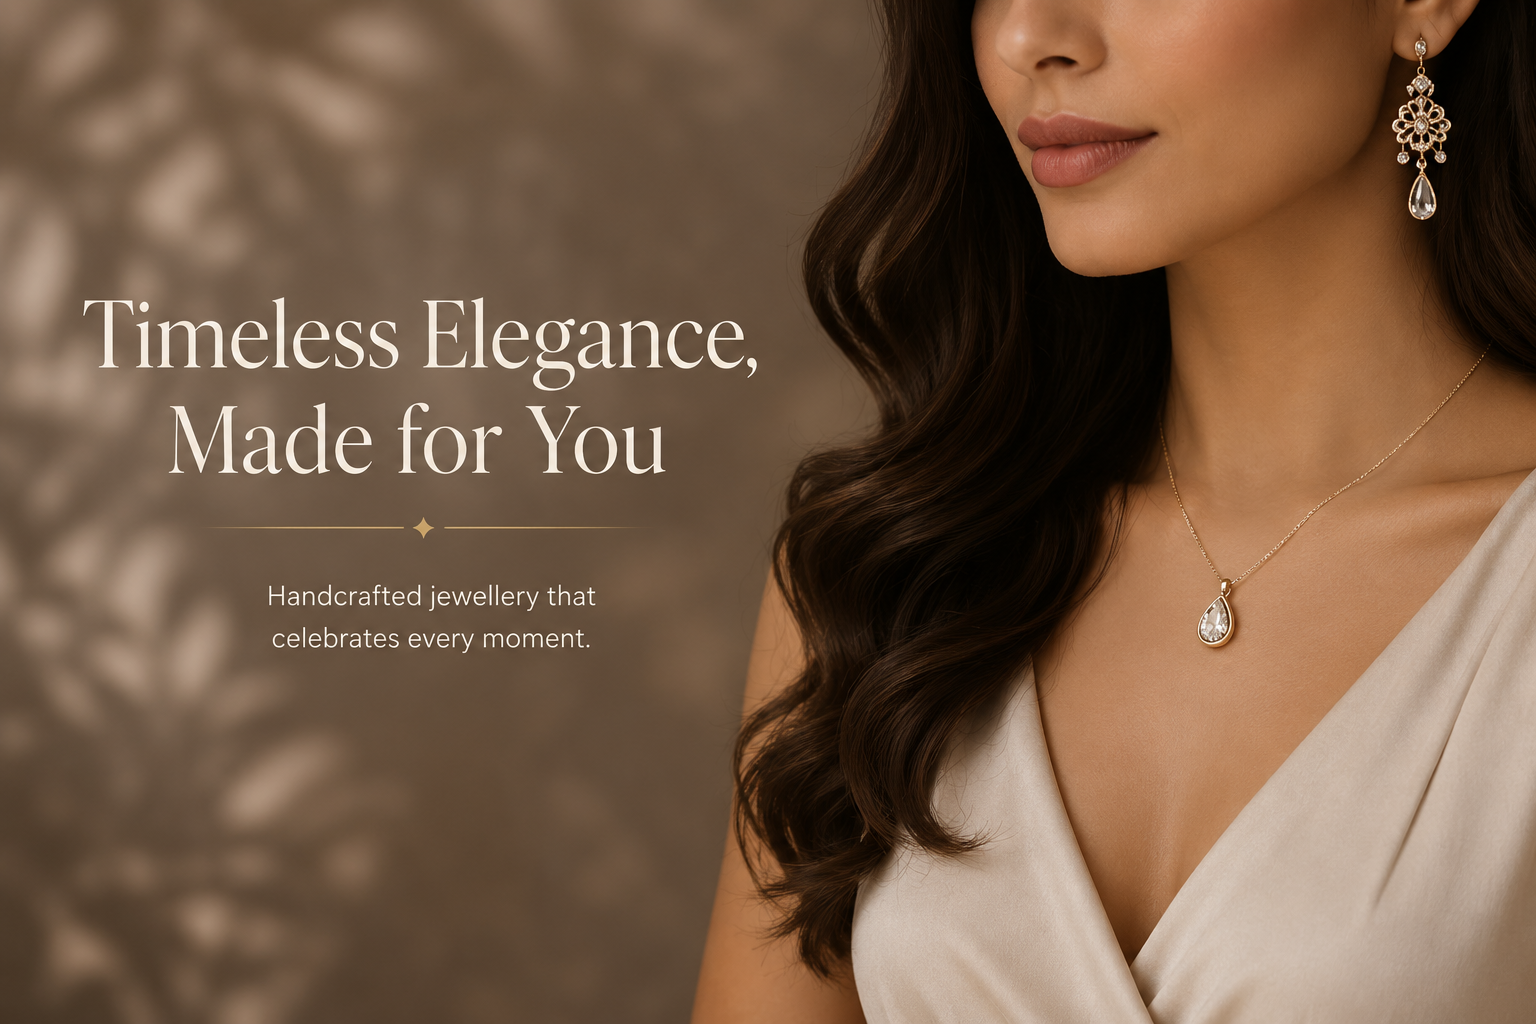
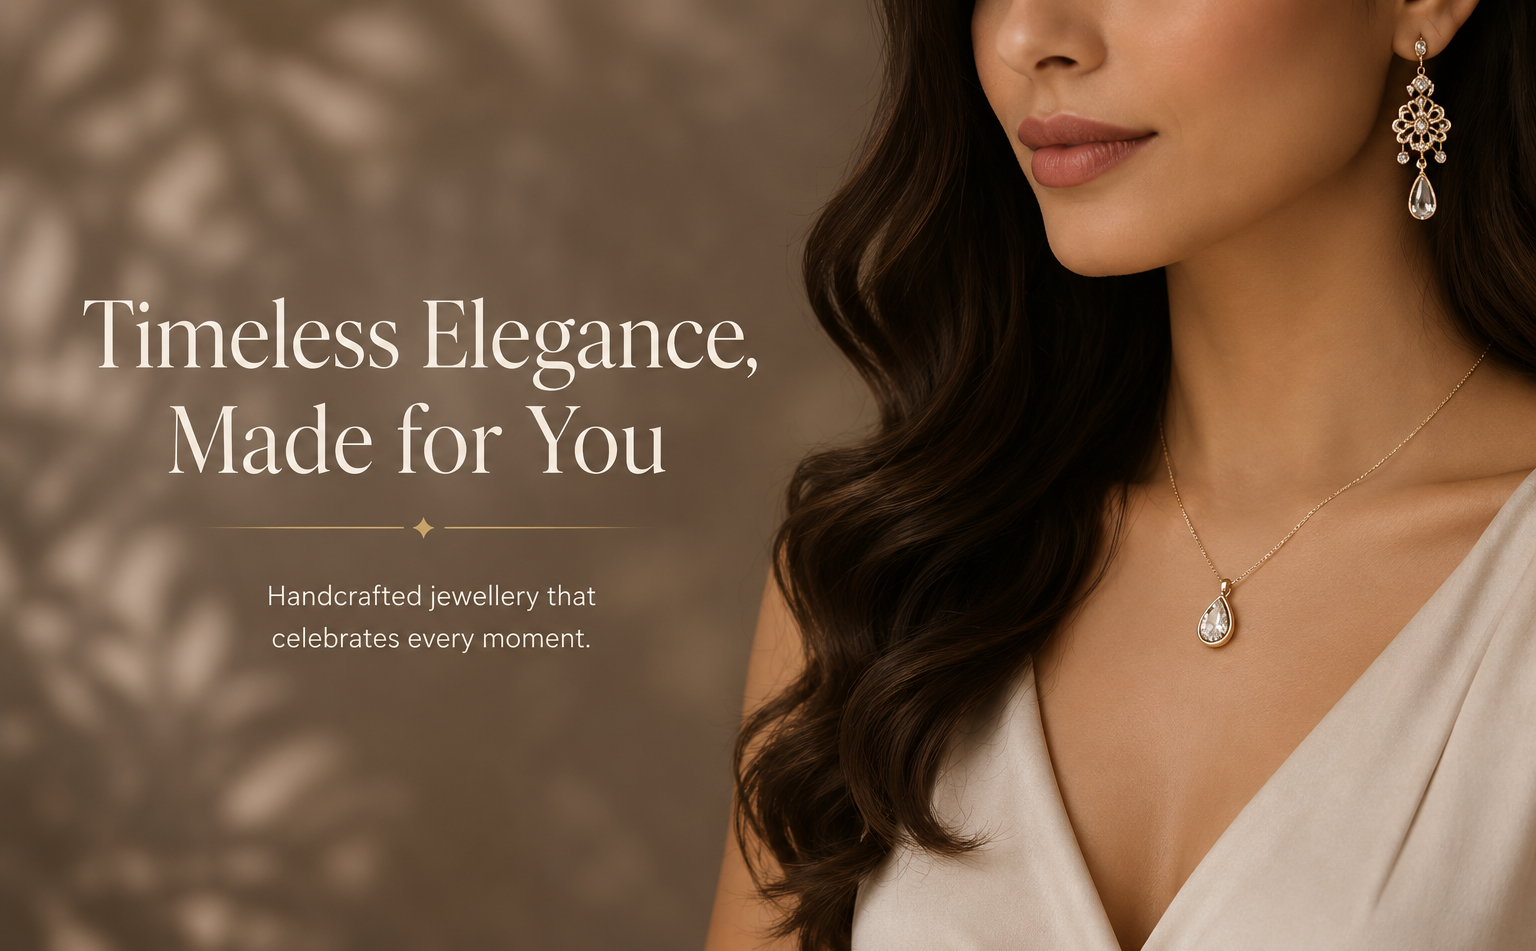
search panel updated

diff --git a/Frontend/src/Components/Shop/shop.module.css b/Frontend/src/Components/Shop/shop.module.css
@@ -41,14 +41,39 @@
   color: inherit;
 }
 
-/* Hero */
-.heroImage {
-  display: block;
+/* ✅ Hero Banner - 40vh on all devices */
+.heroBanner {
   width: 100%;
-  height: auto;
-  aspect-ratio: 21 / 8;
+  height: 60vh;
+  overflow: hidden;
+  position: relative;
+  /* margin-bottom: 10px; */
+}
+
+.heroImage {
+  width: 100%;
+  height: 80%;
   object-fit: cover;
-  object-position: center 30%;
+  display: block;
+
+}
+
+/* ✅ Responsive - Same height on all devices */
+@media (max-width: 768px) {
+  .heroBanner {
+    height: 40vh;
+  }
+}
+
+@media (max-width: 480px) {
+  .heroBanner {
+    height: 40vh;
+  }
+}
+
+/* ✅ Remove old heroImage styles - replaced by heroBanner */
+.heroImageOld {
+  display: none;
 }
 
 @keyframes titleFadeUp {
@@ -69,7 +94,7 @@
   gap: 40px;
   max-width: 1280px;
   margin: 0 auto;
-  padding: 46px 40px 80px;
+  padding: 0 40px 80px;
   align-items: start;
 }
 
@@ -1175,6 +1200,11 @@
   margin: 0;
 }
 
+/* ✅ Remove subtitle completely */
+.recommendationSubtitle {
+  display: none !important;
+}
+
 .recommendationGrid {
   display: grid;
   grid-template-columns: repeat(4, 1fr);
@@ -1226,7 +1256,7 @@
   }
   .shopWrap {
     grid-template-columns: 1fr;
-    padding: 24px 20px 60px;
+    padding: 0 20px 60px;
     gap: 0;
   }
   .productGrid {
@@ -1236,10 +1266,6 @@
   .perks {
     gap: 30px;
     padding: 30px 24px;
-  }
-  .heroImage {
-    aspect-ratio: 16 / 9;
-    object-position: center 25%;
   }
   .resultsCount {
     display: none;
@@ -1273,6 +1299,11 @@
   }
   .searchHeaderText {
     font-size: 13px;
+  }
+  
+  /* ✅ Hero banner same height on mobile */
+  .heroBanner {
+    height: 40vh;
   }
 }
 
@@ -1315,7 +1346,7 @@
     padding-top: 80px;
   }
   .shopWrap {
-    padding: 48px 14px;
+    padding: 0 14px 48px;
   }
   .productGrid {
     grid-template-columns: repeat(2, 1fr);
@@ -1387,10 +1418,6 @@
   .toolbar {
     margin-bottom: 18px;
   }
-  .heroImage {
-    aspect-ratio: 4 / 3;
-    object-position: center 20%;
-  }
   .perks {
     flex-direction: column;
     align-items: flex-start;
@@ -1426,6 +1453,11 @@
   .mobileFilterApply {
     padding: 12px;
     font-size: 15px;
+  }
+  
+  /* ✅ Hero banner same height on smaller mobile */
+  .heroBanner {
+    height: 40vh;
   }
 }
 
@@ -1528,6 +1560,11 @@
   .searchHeaderClear {
     font-size: 11px;
   }
+  
+  /* ✅ Hero banner same height on small mobile */
+  .heroBanner {
+    height: 37vh;
+  }
 }
 
 @media (max-width: 380px) {
@@ -1572,6 +1609,11 @@
   .searchHeaderClear {
     font-size: 10px;
     padding: 2px 6px;
+  }
+  
+  /* ✅ Hero banner same height on smallest mobile */
+  .heroBanner {
+    height: 37vh;
   }
 }
 

diff --git a/Frontend/src/Components/Shop/shop.jsx b/Frontend/src/Components/Shop/shop.jsx
@@ -337,9 +337,6 @@ export default function Shop() {
         );
         toast.error(isSearchMode ? "Search failed" : "Failed to load products");
       } finally {
-        // ✅ removed the artificial 1000ms minimum-delay — this was the
-        // main cause of slow-feeling loads. Loading state now clears as
-        // soon as the request actually finishes.
         if (requestId !== requestIdRef.current) return;
         if (isFirst) setIsInitialLoading(false);
         else setIsLoadingMore(false);
@@ -378,7 +375,7 @@ export default function Shop() {
       (entries) => {
         if (
           entries[0].isIntersecting &&
-          hasUserScrolledRef.current && // ✅ don't auto-fire before any scroll
+          hasUserScrolledRef.current &&
           hasMore &&
           !isLoadingMore &&
           !isInitialLoading
@@ -866,6 +863,15 @@ export default function Shop() {
     <div className={styles.page}>
       <Header />
       <div className={styles.mainContent}>
+        {/* ✅ Hero Banner - 40vh on all devices */}
+        <div className={styles.heroBanner}>
+          <img
+            src={shopHero}
+            alt="Shop our collection"
+            className={styles.heroImage}
+          />
+        </div>
+
         {/* Shop Content */}
         <div className={styles.shopWrap}>
           {/* Mobile Filter Toggle Button */}
@@ -1123,11 +1129,7 @@ export default function Shop() {
               <h2 className={styles.recommendationTitle}>
                 You Might Also Like
               </h2>
-              {effectiveCategoryId && (
-                <p className={styles.recommendationSubtitle}>
-                  Discover more from our other collections
-                </p>
-              )}
+              {/* ✅ Removed "Discover more from our other collections" subtitle */}
             </div>
             {isInitialLoading || isLoadingRecommendations ? (
               <div className={styles.recommendationGrid}>
